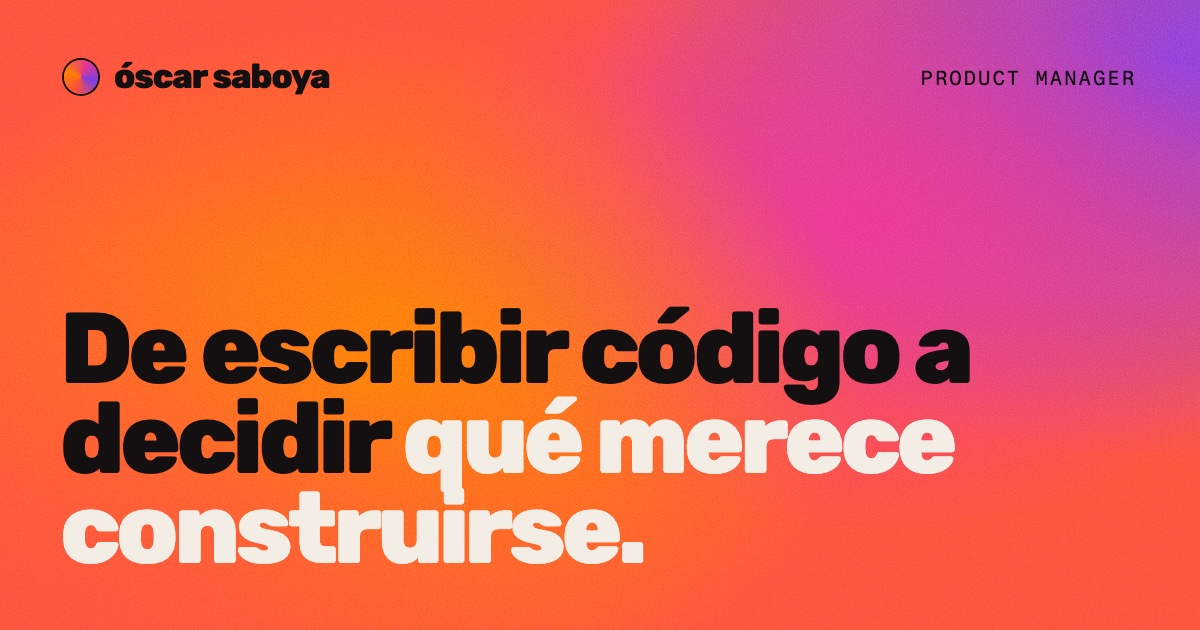
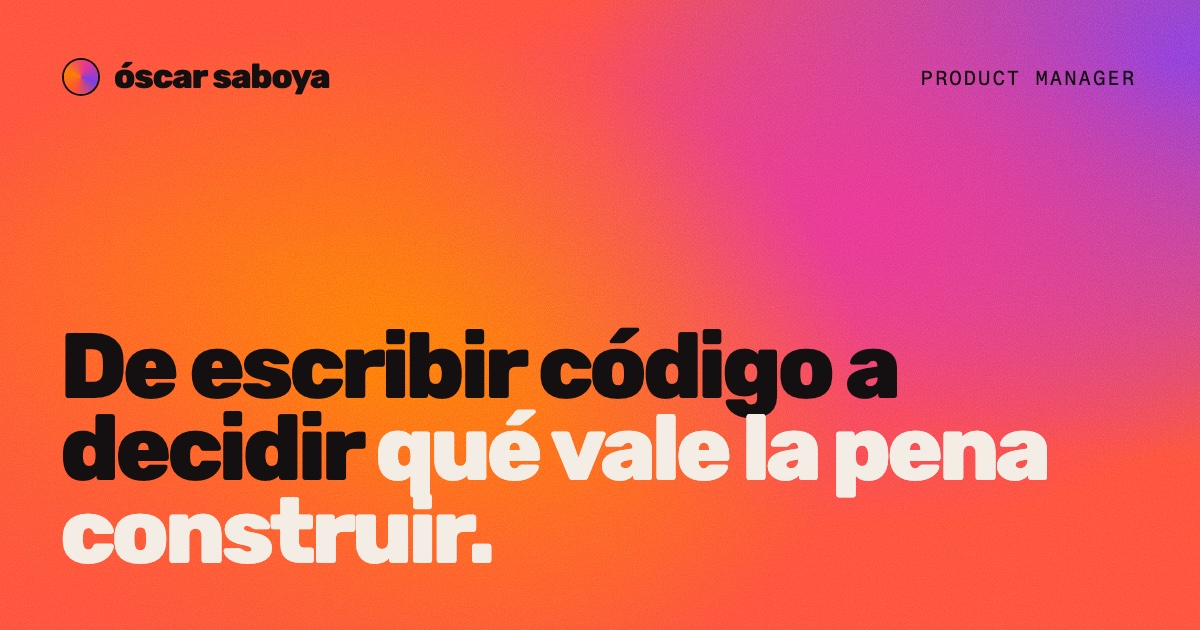
More natural Spanish copy across the site
Headline, bands, journey heading and cards, How I work lists, help labels
and footer rewritten to read like native Spain Spanish, not a translation.
Spanish share image updated with the new headline.

Changed region(s): [[0.0308, 0.4825, 0.8942, 0.9048]]

diff --git a/es/index.html b/es/index.html
@@ -17,13 +17,13 @@
 <meta property="og:url" content="https://oscarsaboya.com/es/">
 <meta property="og:locale" content="es_ES">
 <meta property="og:title" content="Óscar Saboya, product manager">
-<meta property="og:description" content="De escribir código a decidir qué merece construirse.">
+<meta property="og:description" content="De escribir código a decidir qué vale la pena construir.">
 <meta property="og:image" content="https://oscarsaboya.com/og-image-es.jpg">
 <meta property="og:image:width" content="1200">
 <meta property="og:image:height" content="630">
 <meta name="twitter:card" content="summary_large_image">
 <meta name="twitter:title" content="Óscar Saboya, product manager">
-<meta name="twitter:description" content="De escribir código a decidir qué merece construirse.">
+<meta name="twitter:description" content="De escribir código a decidir qué vale la pena construir.">
 <meta name="twitter:image" content="https://oscarsaboya.com/og-image-es.jpg">
 <script type="application/ld+json">{"@context":"https://schema.org","@type":"Person","name":"Óscar Saboya","jobTitle":"Product Manager","url":"https://oscarsaboya.com/","address":{"@type":"PostalAddress","addressLocality":"Zaragoza","addressCountry":"ES"},"sameAs":["https://www.linkedin.com/in/oscarsaboya"]}</script>
 <link rel="preconnect" href="https://fonts.googleapis.com">
@@ -373,8 +373,8 @@ body::after{content:""; position:fixed; inset:0; z-index:100; pointer-events:non
       <a class="go" href="#journey"><i aria-hidden="true"><svg viewBox="0 0 16 16"><path d="M8 2v12M3 9l5 5 5-5"/></svg></i>Ver mi trayectoria</a>
     </div>
   </div>
-  <div class="layer"><h1 class="display">De escribir código a decidir qué merece construirse.</h1></div>
-  <div class="spot" aria-hidden="true"><div class="spot-in"><h1 class="display">De escribir código a decidir qué merece construirse.</h1></div></div>
+  <div class="layer"><h1 class="display">De escribir código a decidir qué vale la pena construir.</h1></div>
+  <div class="spot" aria-hidden="true"><div class="spot-in"><h1 class="display">De escribir código a decidir qué vale la pena construir.</h1></div></div>
 </header>
 
 <!-- ============ AT A GLANCE ============ -->
@@ -386,9 +386,9 @@ body::after{content:""; position:fixed; inset:0; z-index:100; pointer-events:non
 </section>
 
 <!-- ============ CURVED LINE ============ -->
-<section class="bridge" aria-label="Decidir qué merece construirse, y sacarlo adelante">
+<section class="bridge" aria-label="Decidir qué construir, y sacarlo adelante">
   <div class="band" aria-hidden="true">
-    <div class="line l1"><span>decidir qué merece construirse</span><i class="ast"></i><span>decidir qué merece construirse</span><i class="ast"></i><span>decidir qué merece construirse</span><i class="ast"></i><span>decidir qué merece construirse</span><i class="ast"></i></div>
+    <div class="line l1"><span>decidir qué construir</span><i class="ast"></i><span>decidir qué construir</span><i class="ast"></i><span>decidir qué construir</span><i class="ast"></i><span>decidir qué construir</span><i class="ast"></i></div>
     <div class="line l2"><span>y sacarlo adelante</span><svg class="ast-o" viewBox="-50 -50 100 100" aria-hidden="true"><path d="M-11.50 -19.92 L-11.50 -35.00 A11.5 11.5 0 0 1 11.50 -35.00 L11.50 -19.92 L24.56 -27.46 A11.5 11.5 0 0 1 36.06 -7.54 L23.00 0.00 L36.06 7.54 A11.5 11.5 0 0 1 24.56 27.46 L11.50 19.92 L11.50 35.00 A11.5 11.5 0 0 1 -11.50 35.00 L-11.50 19.92 L-24.56 27.46 A11.5 11.5 0 0 1 -36.06 7.54 L-23.00 -0.00 L-36.06 -7.54 A11.5 11.5 0 0 1 -24.56 -27.46 Z" vector-effect="non-scaling-stroke"/></svg><span>y sacarlo adelante</span><svg class="ast-o" viewBox="-50 -50 100 100" aria-hidden="true"><path d="M-11.50 -19.92 L-11.50 -35.00 A11.5 11.5 0 0 1 11.50 -35.00 L11.50 -19.92 L24.56 -27.46 A11.5 11.5 0 0 1 36.06 -7.54 L23.00 0.00 L36.06 7.54 A11.5 11.5 0 0 1 24.56 27.46 L11.50 19.92 L11.50 35.00 A11.5 11.5 0 0 1 -11.50 35.00 L-11.50 19.92 L-24.56 27.46 A11.5 11.5 0 0 1 -36.06 7.54 L-23.00 -0.00 L-36.06 -7.54 A11.5 11.5 0 0 1 -24.56 -27.46 Z" vector-effect="non-scaling-stroke"/></svg><span>y sacarlo adelante</span><svg class="ast-o" viewBox="-50 -50 100 100" aria-hidden="true"><path d="M-11.50 -19.92 L-11.50 -35.00 A11.5 11.5 0 0 1 11.50 -35.00 L11.50 -19.92 L24.56 -27.46 A11.5 11.5 0 0 1 36.06 -7.54 L23.00 0.00 L36.06 7.54 A11.5 11.5 0 0 1 24.56 27.46 L11.50 19.92 L11.50 35.00 A11.5 11.5 0 0 1 -11.50 35.00 L-11.50 19.92 L-24.56 27.46 A11.5 11.5 0 0 1 -36.06 7.54 L-23.00 -0.00 L-36.06 -7.54 A11.5 11.5 0 0 1 -24.56 -27.46 Z" vector-effect="non-scaling-stroke"/></svg><span>y sacarlo adelante</span><svg class="ast-o" viewBox="-50 -50 100 100" aria-hidden="true"><path d="M-11.50 -19.92 L-11.50 -35.00 A11.5 11.5 0 0 1 11.50 -35.00 L11.50 -19.92 L24.56 -27.46 A11.5 11.5 0 0 1 36.06 -7.54 L23.00 0.00 L36.06 7.54 A11.5 11.5 0 0 1 24.56 27.46 L11.50 19.92 L11.50 35.00 A11.5 11.5 0 0 1 -11.50 35.00 L-11.50 19.92 L-24.56 27.46 A11.5 11.5 0 0 1 -36.06 7.54 L-23.00 -0.00 L-36.06 -7.54 A11.5 11.5 0 0 1 -24.56 -27.46 Z" vector-effect="non-scaling-stroke"/></svg><span>y sacarlo adelante</span><svg class="ast-o" viewBox="-50 -50 100 100" aria-hidden="true"><path d="M-11.50 -19.92 L-11.50 -35.00 A11.5 11.5 0 0 1 11.50 -35.00 L11.50 -19.92 L24.56 -27.46 A11.5 11.5 0 0 1 36.06 -7.54 L23.00 0.00 L36.06 7.54 A11.5 11.5 0 0 1 24.56 27.46 L11.50 19.92 L11.50 35.00 A11.5 11.5 0 0 1 -11.50 35.00 L-11.50 19.92 L-24.56 27.46 A11.5 11.5 0 0 1 -36.06 7.54 L-23.00 -0.00 L-36.06 -7.54 A11.5 11.5 0 0 1 -24.56 -27.46 Z" vector-effect="non-scaling-stroke"/></svg><span>y sacarlo adelante</span><svg class="ast-o" viewBox="-50 -50 100 100" aria-hidden="true"><path d="M-11.50 -19.92 L-11.50 -35.00 A11.5 11.5 0 0 1 11.50 -35.00 L11.50 -19.92 L24.56 -27.46 A11.5 11.5 0 0 1 36.06 -7.54 L23.00 0.00 L36.06 7.54 A11.5 11.5 0 0 1 24.56 27.46 L11.50 19.92 L11.50 35.00 A11.5 11.5 0 0 1 -11.50 35.00 L-11.50 19.92 L-24.56 27.46 A11.5 11.5 0 0 1 -36.06 7.54 L-23.00 -0.00 L-36.06 -7.54 A11.5 11.5 0 0 1 -24.56 -27.46 Z" vector-effect="non-scaling-stroke"/></svg></div>
   </div>
 </section>
@@ -397,7 +397,7 @@ body::after{content:""; position:fixed; inset:0; z-index:100; pointer-events:non
 <section class="journey" id="journey" aria-label="Trayectoria">
   <div class="inner">
     <div class="sec-head">
-      <h2 class="display">Producto, <span class="outline">desde<br>el código.</span></h2>
+      <h2 class="display">Del código<br><span class="outline">al producto.</span></h2>
       <p class="mono">2014 → hoy</p>
     </div>
 
@@ -411,21 +411,21 @@ body::after{content:""; position:fixed; inset:0; z-index:100; pointer-events:non
 
       <article class="card c-papaya" style="--i:1">
         <div class="top"><span class="yrs">2020 – 2023</span><span class="role">Product maker<svg class="arr" viewBox="0 0 30 14" aria-label="to"><path d="M2 7c6-5 12 5 18 0" /><path d="M21.5 2.5 27 7l-5.5 4.5"/><path d="M20 7h7"/></svg>Product manager</span></div>
-        <div class="who"><h3 class="co display">Minimum.run</h3><p class="what">De la idea al producto en marcha, para startups y grandes empresas como Iberia o Kpler.</p></div>
-        <div class="num"><b>Semanas</b><span>para pasar de la idea a un MVP en producción, no trimestres</span></div>
+        <div class="who"><h3 class="co display">Minimum.run</h3><p class="what">Llevé ideas a producto real para startups y grandes empresas como Iberia o Kpler.</p></div>
+        <div class="num"><b>Semanas</b><span>de la idea al MVP en producción. No trimestres.</span></div>
         <div class="foot"><div class="mix" style="--p:.5"><span class="end">código</span><div class="track"><i class="knob"></i></div><span class="end">producto</span><b>Mitad y mitad</b></div></div>
       </article>
 
       <article class="card c-pomelo" style="--i:2">
         <div class="top"><span class="yrs">2023 – 2025</span><span class="role">Product manager</span></div>
-        <div class="who"><h3 class="co display">The Hotels Network</h3><p class="what">Lancé SafeDirect, un seguro de viaje que anima al huésped a reservar en la web del hotel, integrado con aseguradoras y PMS. También generación de contenido con IA y KITT, el primer recepcionista con IA para hoteles.</p></div>
-        <div class="num"><b>10x</b><span>los ingresos de SafeDirect en un año, y un 12 % más de conversión para los hoteles</span></div>
+        <div class="who"><h3 class="co display">The Hotels Network</h3><p class="what">Lancé SafeDirect, un seguro de viaje que anima a reservar directamente en la web del hotel, conectado con aseguradoras y PMS. También trabajé en la generación de contenido con IA y en KITT, el primer recepcionista con IA para hoteles.</p></div>
+        <div class="num"><b>10x</b><span>de crecimiento en SafeDirect en un año, y un 12 % más de conversión para los hoteles</span></div>
         <div class="foot"><div class="mix" style="--p:.8"><span class="end">código</span><div class="track"><i class="knob"></i></div><span class="end">producto</span><b>Más producto</b></div></div>
       </article>
 
       <article class="card c-grad" style="--i:3">
         <div class="top"><span class="state"><i aria-hidden="true"></i>Ahora, desde 2025</span><span class="role">Product manager</span></div>
-        <div class="who"><h3 class="co display">Citibox</h3><p class="what">Llevo el producto de una red de 5.000 tiendas de recogida. Mi equipo, de 15 personas, se guía por métricas y no por fechas, y tiene la IA integrada en su forma de trabajar.</p></div>
+        <div class="who"><h3 class="co display">Citibox</h3><p class="what">Llevo el producto de una red de 5.000 puntos de recogida, con un equipo de 15 personas que se guía por métricas y no por fechas, y que usa la IA en su día a día.</p></div>
         <div class="num"><b>500K</b><span>paquetes al mes en España y Portugal</span></div>
         <div class="foot"><div class="mix" style="--p:.92"><span class="end">código</span><div class="track"><i class="knob"></i></div><span class="end">producto</span><b>Sobre todo producto</b></div></div>
       </article>
@@ -440,10 +440,10 @@ body::after{content:""; position:fixed; inset:0; z-index:100; pointer-events:non
     <h2 class="display">Las herramientas caducan.<br><span class="outline">El criterio, no.</span></h2>
     <p class="intro">Uso la IA donde mejora el trabajo, no por moda. Lo que no puede darme es el criterio que he ganado en años lanzando productos y equivocándome por el camino.</p>
     <div class="split">
-      <div><h3>Se lo dejo a la IA</h3><ul><li>Investigar y resumir</li><li>Prototipos y código</li><li>Analizar datos</li><li>Primeras versiones de las specs</li><li>Tareas repetitivas</li></ul></div>
-      <div class="mine"><h3>Me lo quedo yo</h3><ul><li>Qué problema merece la pena resolver</li><li>Qué necesita de verdad el usuario</li><li>Qué se queda fuera</li><li>El nivel de calidad</li><li>Que el equipo se lo crea</li></ul></div>
+      <div><h3>Se lo dejo a la IA</h3><ul><li>Investigación y resúmenes</li><li>Prototipos y código</li><li>Análisis de datos</li><li>Primeros borradores</li><li>Tareas repetitivas</li></ul></div>
+      <div class="mine"><h3>Me lo quedo yo</h3><ul><li>Qué problema merece la pena resolver</li><li>Qué necesita de verdad el usuario</li><li>Qué se queda fuera</li><li>Dónde poner el listón</li><li>Que el equipo se lo crea</li></ul></div>
     </div>
-    <div class="workspace"><p class="mono">Mi espacio de trabajo</p><p>Reuniones, tareas, datos y specs viven en un mismo repo, con la IA trabajando encima.</p></div>
+    <div class="workspace"><p class="mono">Mi espacio de trabajo</p><p>Reuniones, tareas, datos y specs, todo en un mismo repo y con la IA a mano.</p></div>
   </div>
 </section>
 
@@ -471,8 +471,8 @@ body::after{content:""; position:fixed; inset:0; z-index:100; pointer-events:non
     <div class="sec-head"><h2 class="display">Cómo puedo <span class="outline">ayudar.</span></h2><p class="mono">Lo que mejor se me da</p></div>
     <ol class="offers">
       <li><p class="for mono">Para fundadores y proyectos nuevos</p><h3>Sacar ideas adelante</h3><p>De una idea a medio cocinar a un producto que la gente usa. Prototipos en días, y que sean los usuarios quienes decidan qué se queda.</p><p class="proof mono">Minimum.run, zgzbus</p></li>
-      <li><p class="for mono">Para productos con tracción</p><h3>Hacer crecer lo que ya está en marcha</h3><p>Encontrar qué mueve la conversión y los ingresos, probarlo rápido y escalar lo que funciona.</p><p class="proof mono">SafeDirect: 10x en ingresos el primer año, +12 % de conversión</p></li>
-      <li><p class="for mono">Para empresas que quieren meter IA</p><h3>Llevar la IA al producto</h3><p>Ponerla donde de verdad ayuda al usuario, lanzarla y medirla. En producción, no en una demo.</p><p class="proof mono">The Hotels Network: recepcionista y contenido con IA</p></li>
+      <li><p class="for mono">Para productos que ya tienen usuarios</p><h3>Hacer crecer lo que ya está en marcha</h3><p>Encontrar qué mueve la conversión y los ingresos, probarlo rápido y escalar lo que funciona.</p><p class="proof mono">SafeDirect: 10x en ingresos el primer año, +12 % de conversión</p></li>
+      <li><p class="for mono">Para empresas que quieren sumar IA</p><h3>Llevar la IA al producto</h3><p>Usarla donde de verdad ayuda al usuario y medir si funciona. En producción, no en una demo.</p><p class="proof mono">The Hotels Network: recepcionista y contenido con IA</p></li>
       <li><p class="for mono">Para equipos que necesitan foco</p><h3>Cambiar cómo trabaja un equipo</h3><p>Pasar de entregar tareas a conseguir resultados, con objetivos y métricas que todo el mundo ve.</p><p class="proof mono">Citibox: un equipo de 15 que ahora trabaja con métricas</p></li>
     </ol>
   </div>
@@ -553,7 +553,7 @@ body::after{content:""; position:fixed; inset:0; z-index:100; pointer-events:non
   </div>
   <footer class="closer grain">
     <p class="big">Siempre me apetece una buena charla.<br>Sobre trabajo, colaboraciones o, simplemente, buenas ideas.</p>
-    <nav aria-label="Pie de página"><b>Explorar</b><b>En otros sitios</b><a href="#journey">Trayectoria</a><a href="https://www.linkedin.com/in/oscarsaboya" target="_blank" rel="noopener">LinkedIn</a><a href="#side">Proyecto personal</a><a href="#mail">Correo</a><a href="#help">Cómo ayudo</a><span></span></nav>
+    <nav aria-label="Pie de página"><b>Explorar</b><b>Encuéntrame</b><a href="#journey">Trayectoria</a><a href="https://www.linkedin.com/in/oscarsaboya" target="_blank" rel="noopener">LinkedIn</a><a href="#side">Proyecto personal</a><a href="#mail">Correo</a><a href="#help">Cómo ayudo</a><span></span></nav>
     <small>© 2026 Óscar Saboya, Zaragoza</small>
   </footer>
 </section>

diff --git a/scripts/build-es.py b/scripts/build-es.py
@@ -18,7 +18,7 @@ T = [
      '<meta name="description" content="Óscar Saboya, product manager en Zaragoza. Seis años programando y seis en producto. Uso la IA donde aporta; el criterio, siempre.">', 1),
     ('<link rel="canonical" href="https://oscarsaboya.com/">', '<link rel="canonical" href="https://oscarsaboya.com/es/">', 1),
     ('<meta property="og:url" content="https://oscarsaboya.com/">', '<meta property="og:url" content="https://oscarsaboya.com/es/">\n<meta property="og:locale" content="es_ES">', 1),
-    ('content="From writing code to deciding what\'s worth building."', 'content="De escribir código a decidir qué merece construirse."', 2),
+    ('content="From writing code to deciding what\'s worth building."', 'content="De escribir código a decidir qué vale la pena construir."', 2),
     ('https://oscarsaboya.com/og-image.jpg', 'https://oscarsaboya.com/og-image-es.jpg', 2),
 
     # ---------- nav ----------
@@ -35,7 +35,7 @@ T = [
      'Hoy construir cuesta poco. Lo difícil es saber qué merece la pena. A eso me dedico.', 1),
     ('</i>See the journey</a>', '</i>Ver mi trayectoria</a>', 1),
     ("<h1 class=\"display\">From writing code to deciding what's worth building.</h1>",
-     '<h1 class="display">De escribir código a decidir qué merece construirse.</h1>', 2),
+     '<h1 class="display">De escribir código a decidir qué vale la pena construir.</h1>', 2),
 
     # ---------- at a glance ----------
     ('aria-label="At a glance"', 'aria-label="De un vistazo"', 1),
@@ -44,13 +44,13 @@ T = [
      '<p class="brief"><b>Ingeniero informático</b>. Pasé <b>seis años programando</b> y llevo <b>seis en producto</b>. Lo mío es <b>arrancar productos desde cero</b>, <b>hacerlos crecer</b> y <b>cambiar la forma de trabajar de los equipos</b>. He dirigido equipos de producto de <b>más de diez personas</b> y uso <b>IA a diario</b> para investigar, prototipar y sacar cosas adelante. Vivo en <b>Zaragoza</b> y trabajo <b>en remoto</b> sin problema.</p>', 1),
 
     # ---------- bands ----------
-    ('aria-label="Deciding what\'s worth building, and shipping it"', 'aria-label="Decidir qué merece construirse, y sacarlo adelante"', 1),
-    ("<span>deciding what's worth building</span>", '<span>decidir qué merece construirse</span>', 4),
+    ('aria-label="Deciding what\'s worth building, and shipping it"', 'aria-label="Decidir qué construir, y sacarlo adelante"', 1),
+    ("<span>deciding what's worth building</span>", '<span>decidir qué construir</span>', 4),
     ('<span>and shipping it</span>', '<span>y sacarlo adelante</span>', 6),
 
     # ---------- journey ----------
     ('aria-label="Journey"', 'aria-label="Trayectoria"', 1),
-    ('Product, <span class="outline">from<br>the code up.</span>', 'Producto, <span class="outline">desde<br>el código.</span>', 1),
+    ('Product, <span class="outline">from<br>the code up.</span>', 'Del código<br><span class="outline">al producto.</span>', 1),
     ('<p class="mono">2014 → now</p>', '<p class="mono">2014 → hoy</p>', 1),
     ('<span class="yrs">Before that</span>', '<span class="yrs">Los inicios</span>', 1),
     ('<span class="role">Software developer</span>', '<span class="role">Desarrollador de software</span>', 1),
@@ -66,15 +66,15 @@ T = [
     ('<b>Product-led</b>', '<b>Más producto</b>', 1),
     ('<b>Mostly product</b>', '<b>Sobre todo producto</b>', 1),
     ('Ideas taken to live products for startups and corporates, from Iberia to Kpler.',
-     'De la idea al producto en marcha, para startups y grandes empresas como Iberia o Kpler.', 1),
-    ('<b>Weeks</b><span>from idea to live MVP, not quarters</span>', '<b>Semanas</b><span>para pasar de la idea a un MVP en producción, no trimestres</span>', 1),
+     'Llevé ideas a producto real para startups y grandes empresas como Iberia o Kpler.', 1),
+    ('<b>Weeks</b><span>from idea to live MVP, not quarters</span>', '<b>Semanas</b><span>de la idea al MVP en producción. No trimestres.</span>', 1),
     ('SafeDirect: travel insurance that gives guests a reason to book direct, plugged into insurers and PMSs. Plus AI content generation, and KITT, the first AI receptionist for hotels.',
-     'Lancé SafeDirect, un seguro de viaje que anima al huésped a reservar en la web del hotel, integrado con aseguradoras y PMS. También generación de contenido con IA y KITT, el primer recepcionista con IA para hoteles.', 1),
+     'Lancé SafeDirect, un seguro de viaje que anima a reservar directamente en la web del hotel, conectado con aseguradoras y PMS. También trabajé en la generación de contenido con IA y en KITT, el primer recepcionista con IA para hoteles.', 1),
     ('<span>SafeDirect revenue in its first year, and +12% conversion for hotels</span>',
-     '<span>los ingresos de SafeDirect en un año, y un 12 % más de conversión para los hoteles</span>', 1),
+     '<span>de crecimiento en SafeDirect en un año, y un 12 % más de conversión para los hoteles</span>', 1),
     ('</i>Now, since 2025</span>', '</i>Ahora, desde 2025</span>', 1),
     ('The product behind 5,000 pick-up stores. A 15-person team that works on metrics, not deadlines, with AI built into how we work.',
-     'Llevo el producto de una red de 5.000 tiendas de recogida. Mi equipo, de 15 personas, se guía por métricas y no por fechas, y tiene la IA integrada en su forma de trabajar.', 1),
+     'Llevo el producto de una red de 5.000 puntos de recogida, con un equipo de 15 personas que se guía por métricas y no por fechas, y que usa la IA en su día a día.', 1),
     ('<span>parcels a month across Spain and Portugal</span>', '<span>paquetes al mes en España y Portugal</span>', 1),
 
     # ---------- how I work ----------
@@ -85,12 +85,12 @@ T = [
      'Uso la IA donde mejora el trabajo, no por moda. Lo que no puede darme es el criterio que he ganado en años lanzando productos y equivocándome por el camino.', 1),
     ('<h3>I hand to AI</h3>', '<h3>Se lo dejo a la IA</h3>', 1),
     ('<li>Research and synthesis</li><li>Prototypes and code</li><li>Crunching the data</li><li>First drafts of specs</li><li>Repetitive work</li>',
-     '<li>Investigar y resumir</li><li>Prototipos y código</li><li>Analizar datos</li><li>Primeras versiones de las specs</li><li>Tareas repetitivas</li>', 1),
+     '<li>Investigación y resúmenes</li><li>Prototipos y código</li><li>Análisis de datos</li><li>Primeros borradores</li><li>Tareas repetitivas</li>', 1),
     ('<h3>Stays with me</h3>', '<h3>Me lo quedo yo</h3>', 1),
     ('<li>Which problem is worth solving</li><li>What users actually need</li><li>What to leave out</li><li>The quality bar</li><li>Getting the team behind it</li>',
-     '<li>Qué problema merece la pena resolver</li><li>Qué necesita de verdad el usuario</li><li>Qué se queda fuera</li><li>El nivel de calidad</li><li>Que el equipo se lo crea</li>', 1),
+     '<li>Qué problema merece la pena resolver</li><li>Qué necesita de verdad el usuario</li><li>Qué se queda fuera</li><li>Dónde poner el listón</li><li>Que el equipo se lo crea</li>', 1),
     ('<p class="mono">My workspace</p><p>Meetings, tasks, data and specs, all in one repo with AI on top.</p>',
-     '<p class="mono">Mi espacio de trabajo</p><p>Reuniones, tareas, datos y specs viven en un mismo repo, con la IA trabajando encima.</p>', 1),
+     '<p class="mono">Mi espacio de trabajo</p><p>Reuniones, tareas, datos y specs, todo en un mismo repo y con la IA a mano.</p>', 1),
 
     # ---------- zgzbus ----------
     ('aria-label="Side project"', 'aria-label="Proyecto personal"', 1),
@@ -109,10 +109,10 @@ T = [
     ('<p class="for mono">For founders and new bets</p><h3>Taking ideas live</h3><p>From a rough idea to a product people actually use. Prototypes in days, and real users deciding what stays.</p>',
      '<p class="for mono">Para fundadores y proyectos nuevos</p><h3>Sacar ideas adelante</h3><p>De una idea a medio cocinar a un producto que la gente usa. Prototipos en días, y que sean los usuarios quienes decidan qué se queda.</p>', 1),
     ("<p class=\"for mono\">For products with traction</p><h3>Growing what's already live</h3><p>Finding what moves conversion and revenue, testing it fast, scaling what works.</p>",
-     '<p class="for mono">Para productos con tracción</p><h3>Hacer crecer lo que ya está en marcha</h3><p>Encontrar qué mueve la conversión y los ingresos, probarlo rápido y escalar lo que funciona.</p>', 1),
+     '<p class="for mono">Para productos que ya tienen usuarios</p><h3>Hacer crecer lo que ya está en marcha</h3><p>Encontrar qué mueve la conversión y los ingresos, probarlo rápido y escalar lo que funciona.</p>', 1),
     ('<p class="proof mono">SafeDirect: 10x revenue in its first year, +12% conversion</p>', '<p class="proof mono">SafeDirect: 10x en ingresos el primer año, +12 % de conversión</p>', 1),
     ('<p class="for mono">For companies adding AI</p><h3>Bringing AI into products</h3><p>Where AI genuinely helps users, shipped and measured. In production, not in a demo.</p><p class="proof mono">The Hotels Network: AI receptionist, AI content</p>',
-     '<p class="for mono">Para empresas que quieren meter IA</p><h3>Llevar la IA al producto</h3><p>Ponerla donde de verdad ayuda al usuario, lanzarla y medirla. En producción, no en una demo.</p><p class="proof mono">The Hotels Network: recepcionista y contenido con IA</p>', 1),
+     '<p class="for mono">Para empresas que quieren sumar IA</p><h3>Llevar la IA al producto</h3><p>Usarla donde de verdad ayuda al usuario y medir si funciona. En producción, no en una demo.</p><p class="proof mono">The Hotels Network: recepcionista y contenido con IA</p>', 1),
     ('<p class="for mono">For teams that need focus</p><h3>Changing how teams work</h3><p>From shipping tasks to shipping results, with goals and metrics everyone can see.</p><p class="proof mono">Citibox: 15 people now run on metrics</p>',
      '<p class="for mono">Para equipos que necesitan foco</p><h3>Cambiar cómo trabaja un equipo</h3><p>Pasar de entregar tareas a conseguir resultados, con objetivos y métricas que todo el mundo ve.</p><p class="proof mono">Citibox: un equipo de 15 que ahora trabaja con métricas</p>', 1),
 
@@ -133,7 +133,7 @@ T = [
     ('<span class="mono">Email</span>', '<span class="mono">Correo</span>', 1),
     ('<p class="big">Always up for a good conversation.<br>About roles, collaborations or just good ideas.</p>',
      '<p class="big">Siempre me apetece una buena charla.<br>Sobre trabajo, colaboraciones o, simplemente, buenas ideas.</p>', 1),
-    ('<nav aria-label="Footer"><b>Explore</b><b>Elsewhere</b><a href="#journey">Journey</a>', '<nav aria-label="Pie de página"><b>Explorar</b><b>En otros sitios</b><a href="#journey">Trayectoria</a>', 1),
+    ('<nav aria-label="Footer"><b>Explore</b><b>Elsewhere</b><a href="#journey">Journey</a>', '<nav aria-label="Pie de página"><b>Explorar</b><b>Encuéntrame</b><a href="#journey">Trayectoria</a>', 1),
     ('<a href="#side">Side project</a><a href="#mail">Email</a><a href="#help">How I help</a>', '<a href="#side">Proyecto personal</a><a href="#mail">Correo</a><a href="#help">Cómo ayudo</a>', 1),
     ('<small>© 2026 Óscar Saboya, Zaragoza, Spain</small>', '<small>© 2026 Óscar Saboya, Zaragoza</small>', 1),
 ]
